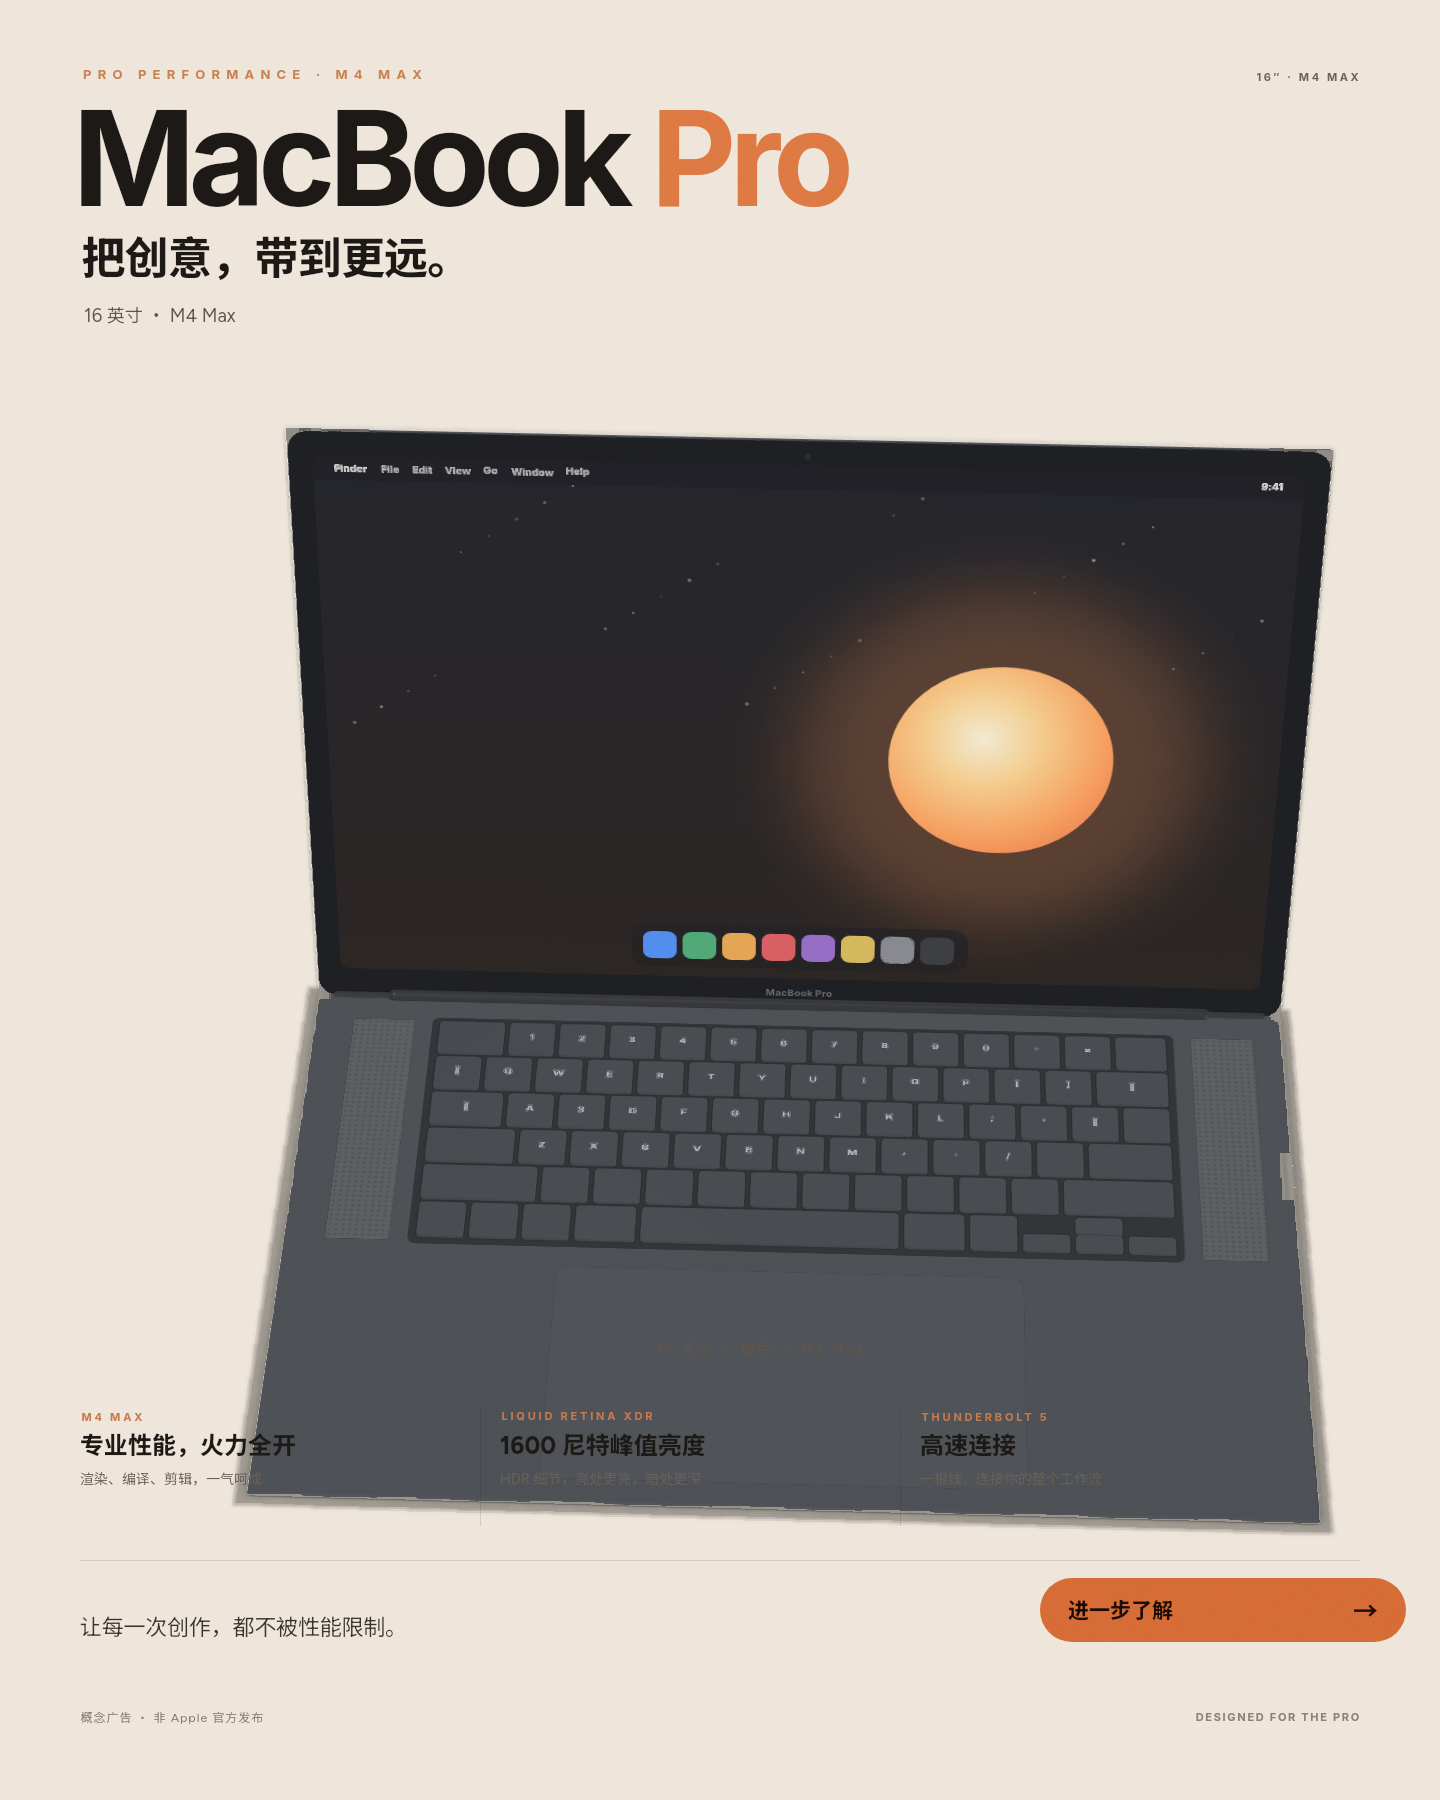
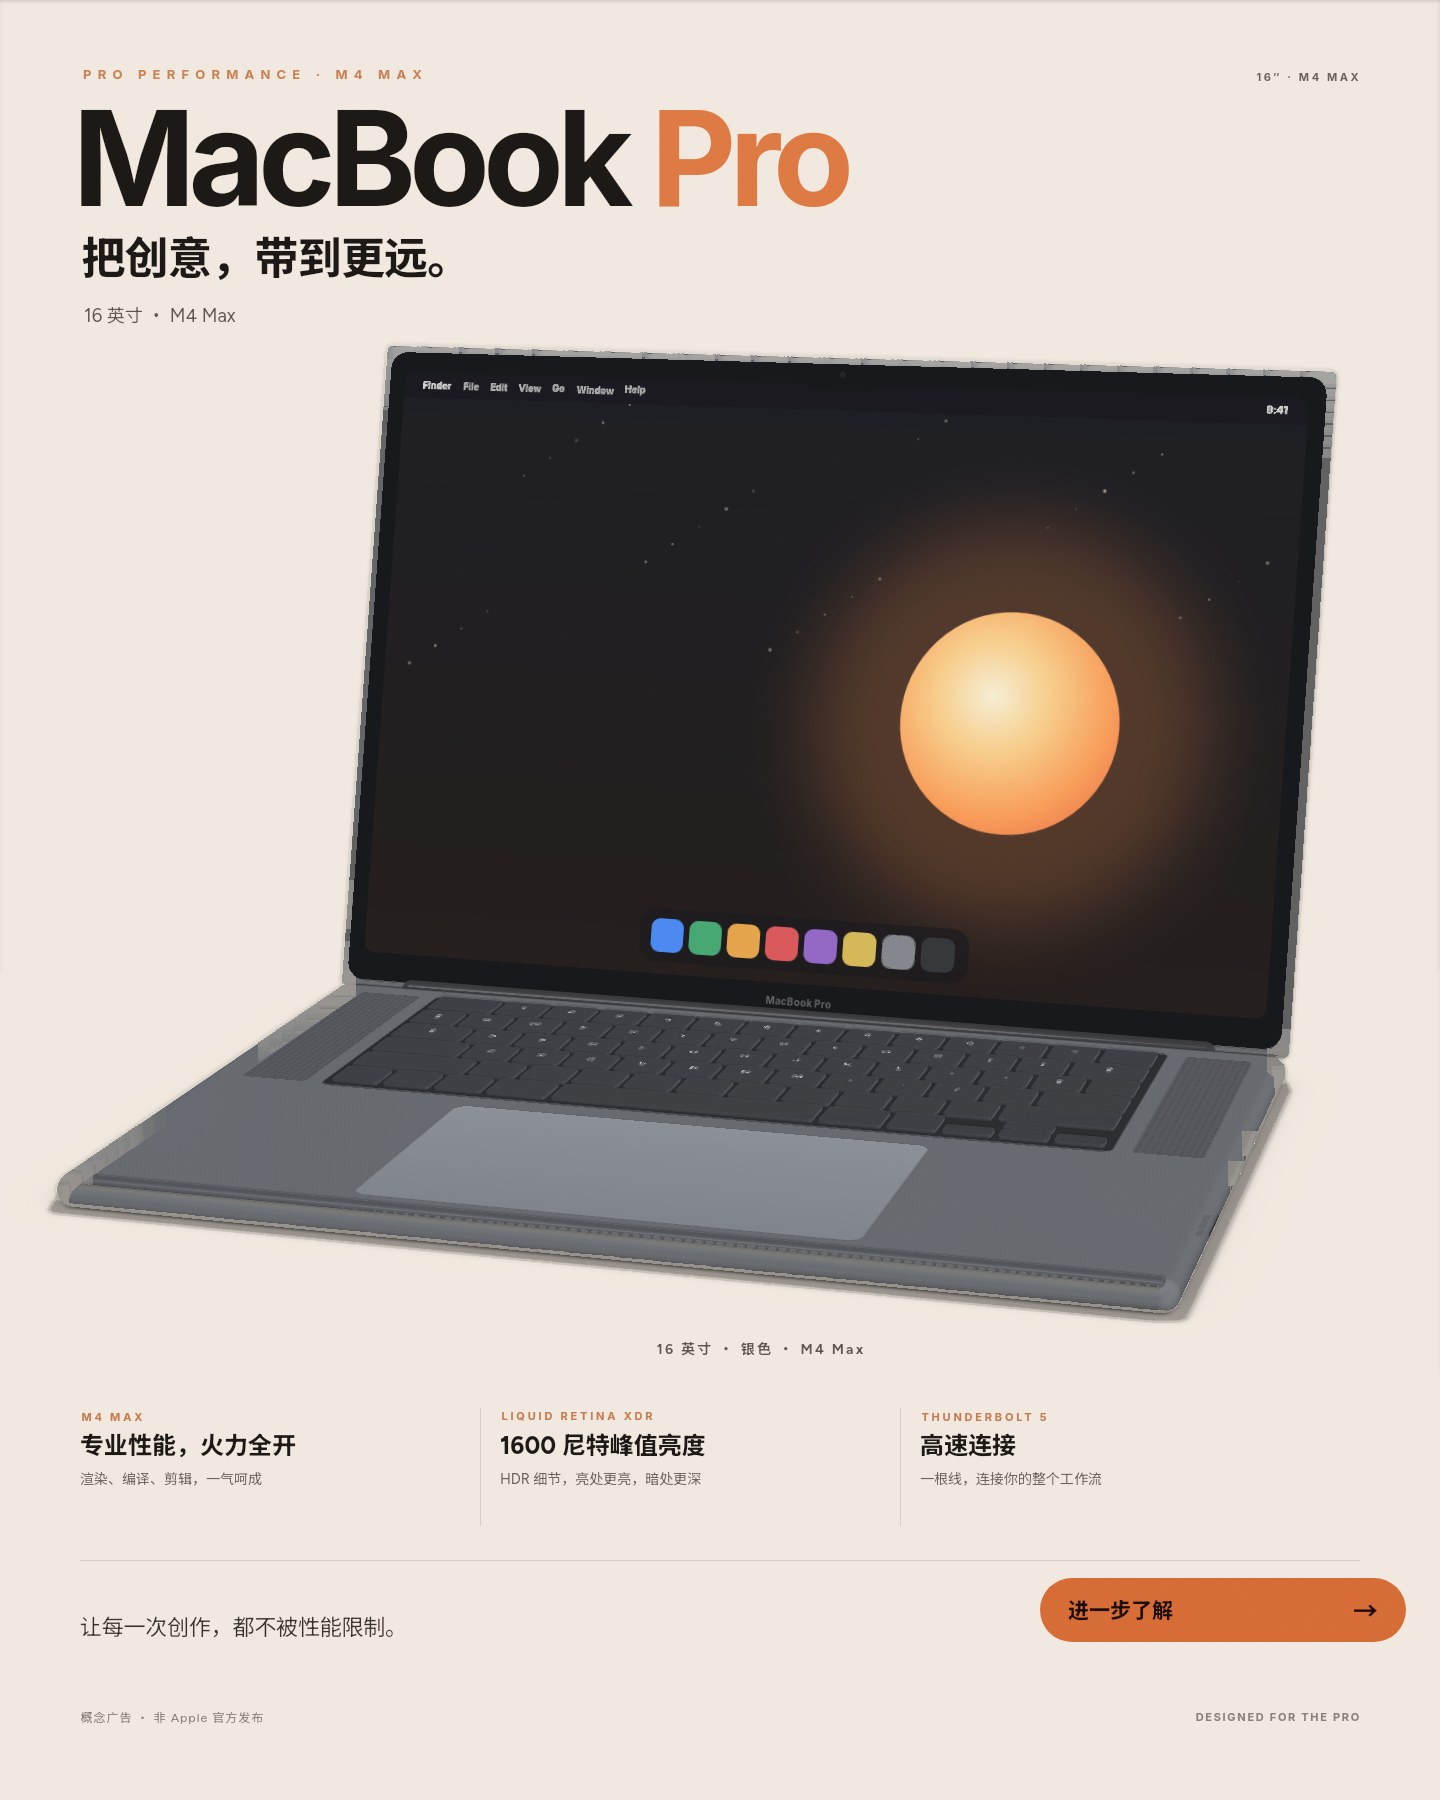
QUALITY-6 §9.2: restore mac-7 chassis (front bevel, matte 0.7).
Flat/overhead tips left macbook at 4. Restore the glasswash-era thick
chassis + dark FRONT bevel + matte 0.7 that previously dual-blinded at 7.
Keep legends; mirror gold back to #ffc94a.

Changed region(s): [[0.0312, 0.1867, 0.9375, 0.8711], [0.5938, 0.28, 0.7812, 0.4978]]

diff --git a/examples/macbook-pro.tsx b/examples/macbook-pro.tsx
@@ -3,22 +3,21 @@
 // 银色 16 英寸 MacBook Pro 海报，以后渲染用这个场景。
 // npx tsx src/cli.ts render examples/macbook-pro.tsx -o examples/macbook-pro.png
 // 机身 980 × 670 × 30，屏幕盖 980 × 666 × 10，按 2.755 px/mm 换算。
-// Darker shell so lid/deck cannot read as a chrome lip over the seam (§9.2).
-const SILVER = '#3a3e44'
+// Darker shell so lid bezel specular cannot read as chrome (§9.2).
+const SILVER = '#6e737a'
 const SHELL = 'plastic 0.845'
-const PAD_FILL = '#3a3e44'
+const FRONT = '#555960'
 const KEY = '#2e3138'
 const WELL = '#1a1c20'
 
 const W = 980
 const D = 670
-// Near-flat deck — any tall front face reads as chrome lip (§9.2).
-const T = 4
+const T = 30
 const TOP = T / 2
 
 const LID_H = 666
-const LID_T = 3
-const LID_TILT = 6
+const LID_T = 10
+const LID_TILT = 15
 
 const STAGE = { x: 310, groundY: 1044 }
 
@@ -123,14 +122,16 @@ function Base() {
   return (
     <layer x={STAGE.x} y={STAGE.groundY - TOP} width={W} height={D} origin={`${W / 2} 0`} rotateX="90" preserve-3d>
       <rect width={W} height={D} rx="24" fill={SILVER} material={SHELL} depth={T} stroke="none" />
+      {/* Darker front lip so the extruded front face cannot read as chrome. */}
+      <rect x="12" y={D - 14} width={W - 24} height="14" rx="6" fill={FRONT} material="plastic 0.84" depth="6" z={TOP - 2} stroke="none" cast-shadow="false" />
       <layer x="0" y="0" width={W} height={D} z={TOP + 0.2} cast-shadow="false">
         <rect x={WELL_BOX.x} y={WELL_BOX.y} width={WELL_BOX.w} height={WELL_BOX.h} rx="8" fill={WELL} />
         <rect x={KB.x - GRILLE_W - 18} y={KB.y + 4} width={GRILLE_W} height={WELL_BOX.h - 8} rx="4" fill="#4a4c51" />
         <rect x={WELL_BOX.x + WELL_BOX.w + 18} y={KB.y + 4} width={GRILLE_W} height={WELL_BOX.h - 8} rx="4" fill="#4a4c51" />
         <path d={grilleLeft} fill="#3c3e43" stroke="none" />
         <path d={grilleRight} fill="#3c3e43" stroke="none" />
-        <rect x={padX - 1.5} y={padY - 1.5} width={PAD.w + 3} height={PAD.h + 3} rx="13" fill={PAD_FILL} />
-        <rect x={padX} y={padY} width={PAD.w} height={PAD.h} rx="12" fill={PAD_FILL} />
+        <rect x={padX - 1.5} y={padY - 1.5} width={PAD.w + 3} height={PAD.h + 3} rx="13" fill="#6a6e75" />
+        <rect x={padX} y={padY} width={PAD.w} height={PAD.h} rx="12" fill="linear-gradient(180deg, #858b93 0%, #787e86 100%)" />
       </layer>
       <path d={keyPath} fill={KEY} material="plastic" depth="4" z={TOP + 1.6} stroke="none" cast-shadow="false" />
       {keyLegends().map((k) => (
@@ -138,9 +139,7 @@ function Base() {
           <p style="font-family:Inter; font-size:11px; font-weight:600; color:#b8bcc4">{k.label}</p>
         </layer>
       ))}
-      {/* In-mesh dark hinge rail — kills warm deck-edge specular without a 2D strip (§9.2). */}
-      <rect x="16" y="-1" width={W - 32} height="7" rx="3" fill="#1e2024" material="plastic 0.9" depth="5" z={TOP + 0.6} cast-shadow="false" />
-      <rect x="70" y="-8" width={W - 140} height="18" rx="9" fill="#1a1b1e" material="plastic" depth="18" z={TOP - 3} cast-shadow="false" />
+      <rect x="70" y="-8" width={W - 140} height="18" rx="9" fill="#2a2b2f" material="plastic" depth="18" z={TOP - 3} cast-shadow="false" />
       <layer x={W - T / 2} y="0" width={T} height={D} origin={`${T / 2} 0`} rotateY="90" z="0.3" cast-shadow="false">
         <rect x={T / 2 - 4} y="214" width="8" height="30" rx="3" fill="#1c1d20" />
         <rect x={T / 2 - 3.5} y="300" width="7" height="22" rx="3.5" fill="#1c1d20" />
@@ -194,14 +193,12 @@ function Wallpaper() {
 }
 
 function Lid() {
-  // 1px silver rim — dual-blind still called the 2px bezel a chrome lip (§9.2).
-  const BEZEL = 1
   return (
     <layer x={STAGE.x} y={STAGE.groundY - T + 4 - LID_H} width={W} height={LID_H} origin={`${W / 2} ${LID_H}`} rotateX={LID_TILT} cast-shadow="false">
       <rect width={W} height={LID_H} rx="24" fill={SILVER} material={SHELL} depth={LID_T} z={-LID_T / 2 - 1} stroke="none" cast-shadow="false" />
-      <rect x={BEZEL} y={BEZEL} width={W - BEZEL * 2} height={LID_H - BEZEL * 2} rx="20" fill="#050608" cast-shadow="false" />
+      <rect x="7" y="7" width={W - 14} height={LID_H - 14} rx="18" fill="#050608" cast-shadow="false" />
       <Wallpaper />
-      <rect x={W / 2 - 36} y={BEZEL} width="72" height="27" rx="8" fill="#050608" cast-shadow="false" />
+      <rect x={W / 2 - 36} y="7" width="72" height="27" rx="8" fill="#050608" cast-shadow="false" />
       <circle cx={W / 2} cy="18" r="2.4" fill="#0e1018" stroke="#23262e" stroke-width="0.6" />
       <layer x={W / 2} y={SCREEN.y + SCREEN.h + 18} anchor="center">
         <p style="font-family:Inter; font-size:10px; letter-spacing:0.4px; color:#5b5e65">MacBook Pro</p>
@@ -213,12 +210,13 @@ function Lid() {
 export default (
   <layer width="1440" height="1800" background="#f6f3ee" color="#1c1916" min-font="10" noise="0.012">
     <rect x="0" y="0" width="1440" height="1800" fill="linear-gradient(180deg, #f7f4ef 0%, #efe8df 100%)" />
-    <layer width="1440" height="1800" camera="fov 22, orbit 2 42" light="world" grade="matte 0.98">
-      {/* More overhead foreshortens the deck lip; chromegold hemi (cooler lights hurt §9.2). */}
-      <light type="hemisphere" intensity="0.95" color="#fff8f0" ground-color="#d2ccc4" />
+    <layer width="1440" height="1800" camera="fov 28, orbit 16 14" light="world" grade="matte 0.7">
+      {/* Stronger matte + darker front bevel kill chrome lip (§9.2). */}
+      <light type="hemisphere" intensity="0.58" color="#fff8f0" ground-color="#d2ccc4" />
+      <light type="directional" intensity="0.18" color="#fff5ea" x="200" y="-400" z="600" target="0 0 0" />
       <Lid />
       <Base />
-      <ground y={STAGE.groundY} rotateX="90" fill="#efe8df" shadow-blur="140" shadow-opacity="0.08" />
+      <ground y={STAGE.groundY} rotateX="90" fill="#efe8df" shadow-blur="72" shadow-opacity="0.28" />
     </layer>
     <layer x="80" y="66">
       <p style="font-family:Inter; font-size:13px; font-weight:700; letter-spacing:6.2px; color:#c88255">PRO PERFORMANCE · M4 MAX</p>

diff --git a/scripts/gallery-3d.ts b/scripts/gallery-3d.ts
@@ -117,9 +117,9 @@ const FINISHES: Finish[] = [
   {
     // Hotter gold — cool desat twin of metal 0.8 under dual-blind (§9.2).
     label: 'mirror',
-    box: 'fill="#ffb428" material="mirror"',
-    sphere: 'fill="#ffb428" material="mirror"',
-    side: 'fill="#ffb428" material="mirror"',
+    box: 'fill="#ffc94a" material="mirror"',
+    sphere: 'fill="#ffc94a" material="mirror"',
+    side: 'fill="#ffc94a" material="mirror"',
   },
   {
     // Cool mid silver — bright #e8eef3 washed the aniso tip (aspect→1); orange
